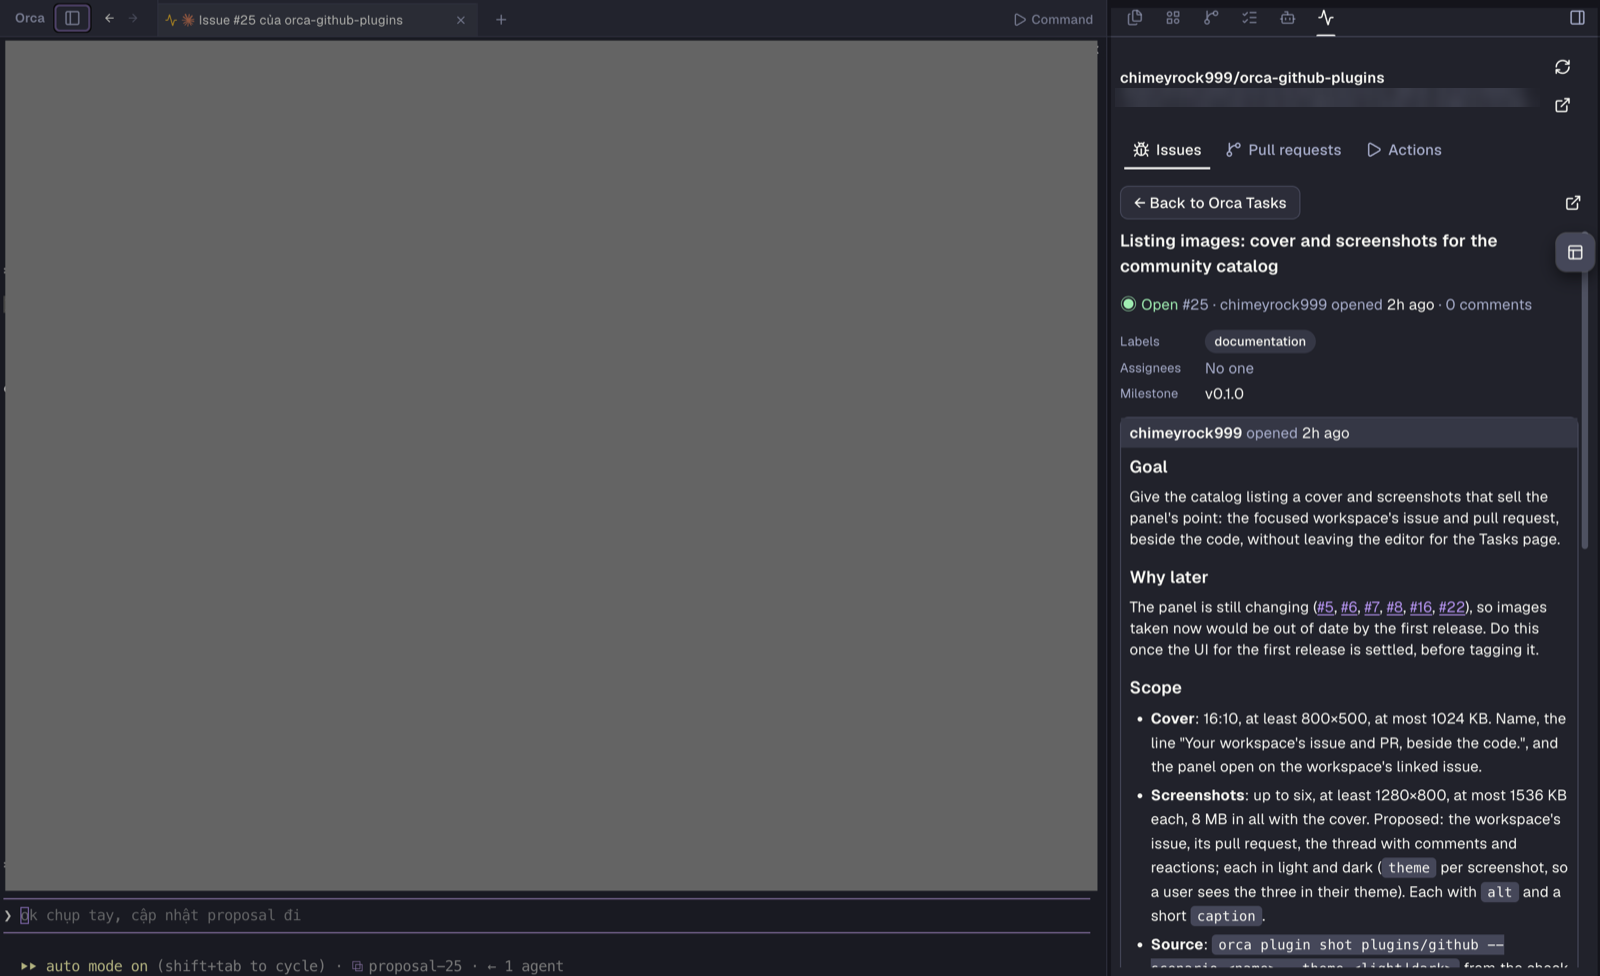
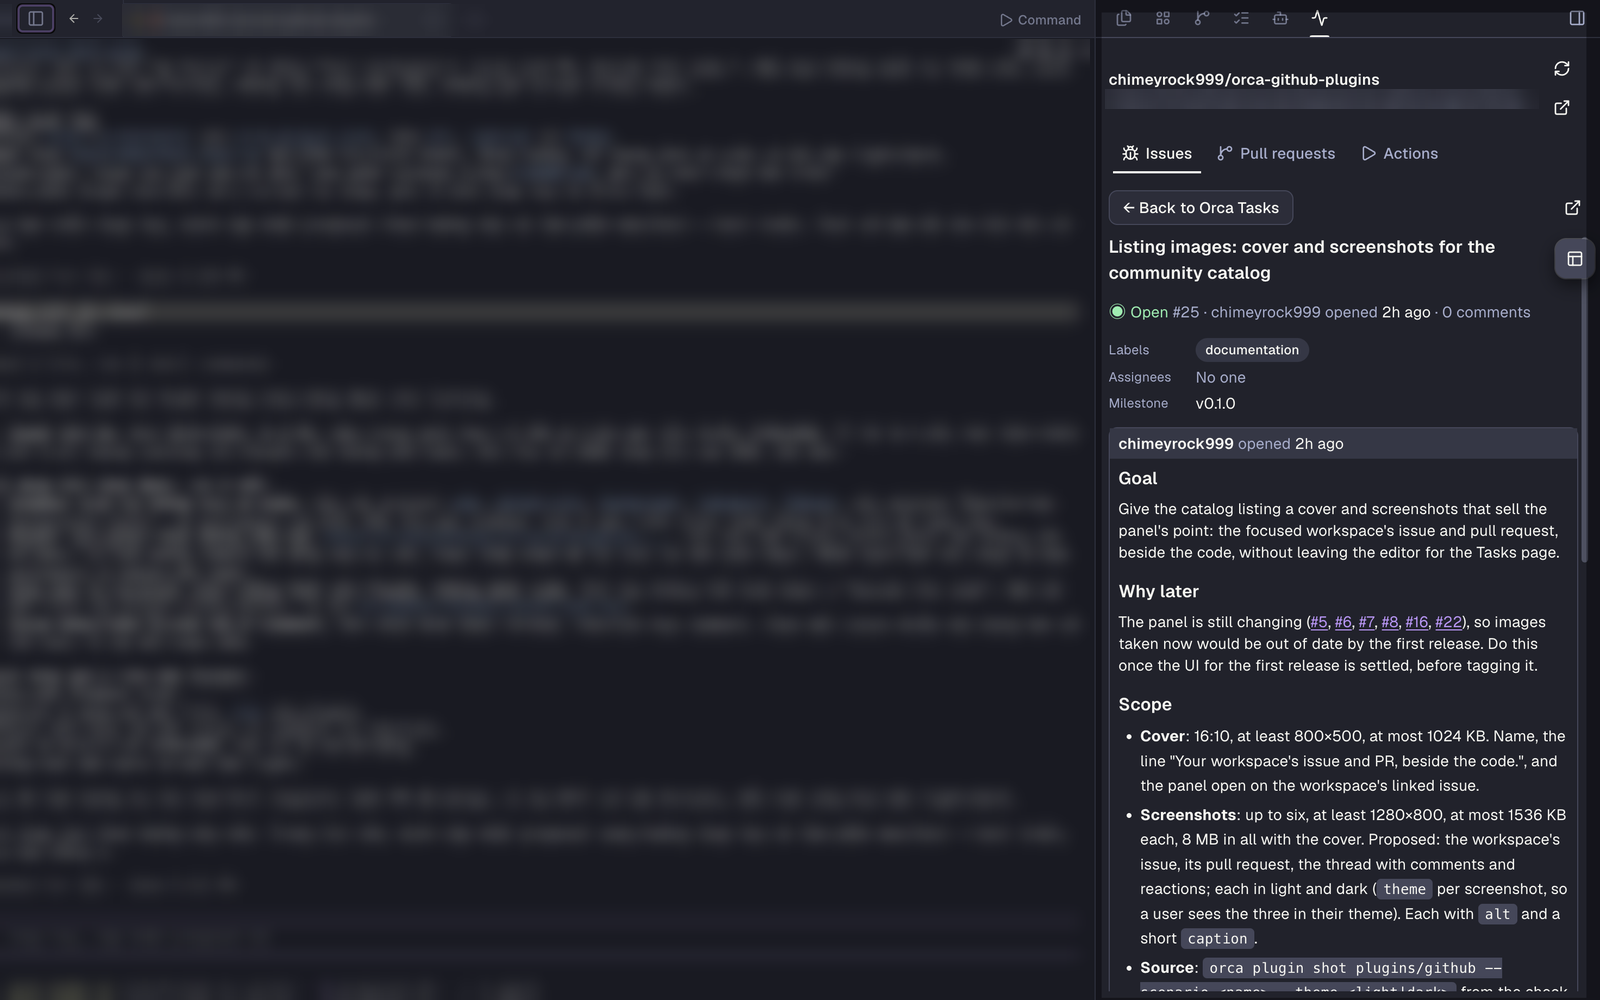
fix: 16:10 listing images with private areas blurred, static check
- Images recut from the original captures: cropped to 16:10 from the
  left edge, scaled to 1600x1000, then the tab titles, the terminal
  pane with its status line and the folder path line blurred.
- tests/manifest.test.ts: the cover must be 16:10, and no image may
  carry an acTL chunk (animated PNG).
- CLAUDE.md: the retake steps say what to blur or close, crop to 16:10
  instead of a window size that did not give it, and PNG as what the
  test checks.

diff --git a/plugins/gh-focus/tests/manifest.test.ts b/plugins/gh-focus/tests/manifest.test.ts
@@ -56,13 +56,15 @@ test('the plugin page has its author, repository and license', () => {
   assert.equal(manifest.license, 'MIT')
 })
 
-// The catalog's image rules (Orca 1.4.256): PNG here, at least the minimum size, at most the byte
-// limit, at most six screenshots, 8 MB in all.
+// The catalog's image rules (Orca 1.4.256): static PNG here, at least the minimum size, at most the
+// byte limit, a 16:10 cover, at most six screenshots, 8 MB in all.
 const KB = 1024
 
 function png(path: string): { width: number; height: number; bytes: number } {
   const file = readFileSync(join(root, path))
   assert.equal(file.subarray(1, 4).toString('latin1'), 'PNG', `${path} is not a PNG`)
+  // Listing images must be static: an animated PNG carries an acTL chunk.
+  assert.ok(!file.includes('acTL', 0, 'latin1'), `${path} is animated`)
   return { width: file.readUInt32BE(16), height: file.readUInt32BE(20), bytes: file.length }
 }
 
@@ -71,6 +73,7 @@ test('the cover fits the catalog limits', () => {
   assert.ok(manifest.cover.alt.length > 0 && manifest.cover.alt.length <= 160)
   const { width, height, bytes } = png(manifest.cover.path)
   assert.ok(width >= 800 && height >= 500, `cover is ${width}×${height}`)
+  assert.equal(width * 10, height * 16, `cover is ${width}×${height}, not 16:10`)
   assert.ok(bytes <= 1024 * KB, `cover is ${bytes} bytes`)
 })
 

diff --git a/CLAUDE.md b/CLAUDE.md
@@ -138,15 +138,15 @@ an hour. The newest tag is pinned to its commit and content hash; a listed versi
    https://orca.dev/plugins/chimeyrock999/orca-github-plugins.
 
 Listing images (`images/issue.png`, also the cover, and `images/pull.png`) are screenshots of Orca
-itself, in the dark theme, with the left sidebar collapsed and nothing private on screen (other
-projects, terminals). Size the window to about 16:10 (e.g. `osascript -e 'tell application "System
-Events" to tell process "Orca" to set size of front window to {1440, 900}'`), capture it without
-its shadow (`screencapture -o -w <file>.png`), then scale to 1600 px wide
-(`sips --resampleWidth 1600 <file>.png --out plugins/gh-focus/images/<name>.png`). The catalog
-wants PNG or JPEG, a cover of at least 800×500 and at most 1024 KB, screenshots of at least
-1280×800 and at most 1536 KB, six at most, 8 MB in all; `tests/manifest.test.ts` and
-`orca plugin validate` check them. Leave `theme` unset on screenshots: a themed one hides from
-users of the other theme.
+itself, in the dark theme, with the left sidebar collapsed. Capture the window without its shadow
+(`screencapture -o -w <file>.png`), crop it to 16:10 from the left edge and scale it to 1600×1000,
+then blur everything private: the folder path line under the repository name (it holds the home
+directory), tab titles, and any terminal or agent pane with its status line. Better still, close
+those before capturing and keep only an editor on a file of this repo. The catalog takes PNG,
+JPEG or WEBP; we keep PNG, which `tests/manifest.test.ts` checks: static, a 16:10 cover of at least
+800×500 and at most 1024 KB, screenshots of at least 1280×800 and at most 1536 KB, six at most,
+8 MB in all (`orca plugin validate` checks the limits too). Leave `theme` unset on screenshots: a
+themed one hides from users of the other theme.
 
 Fixes go `hotfix/*` → `main`, then are tagged the same way and merged back into `dev`. The topic is
 set once (`gh repo edit chimeyrock999/orca-github-plugins --add-topic orca-plugin`).
